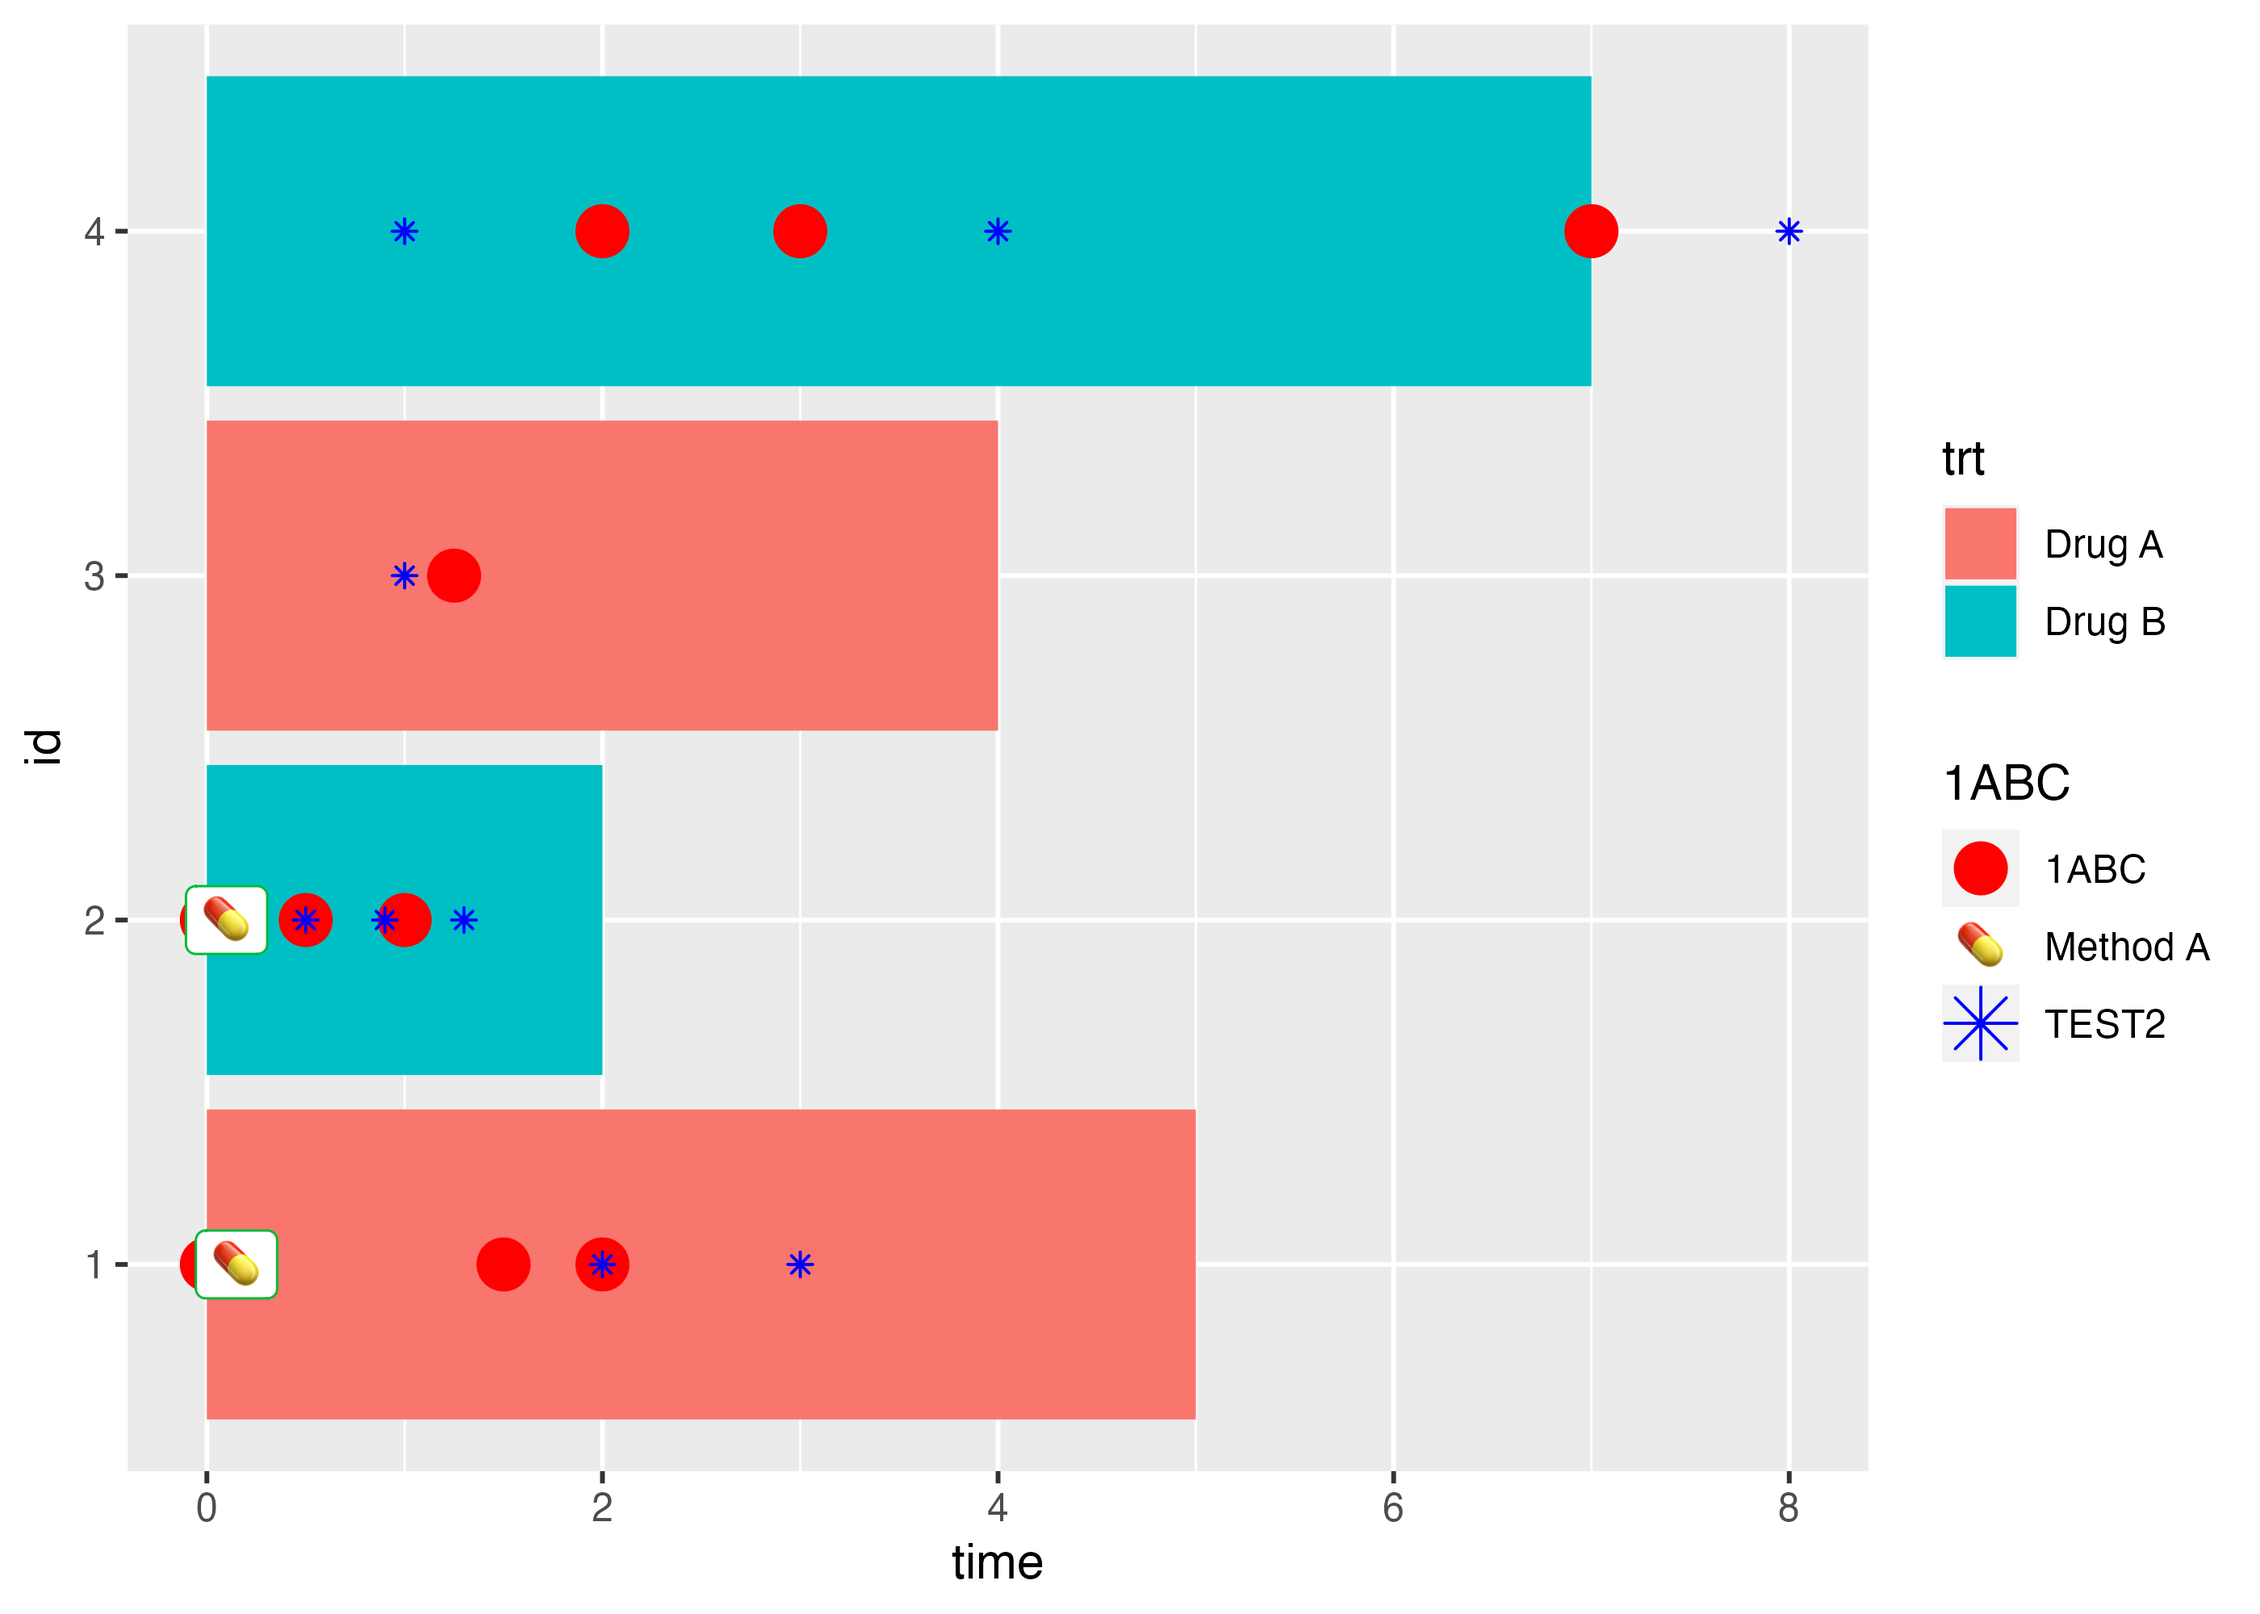
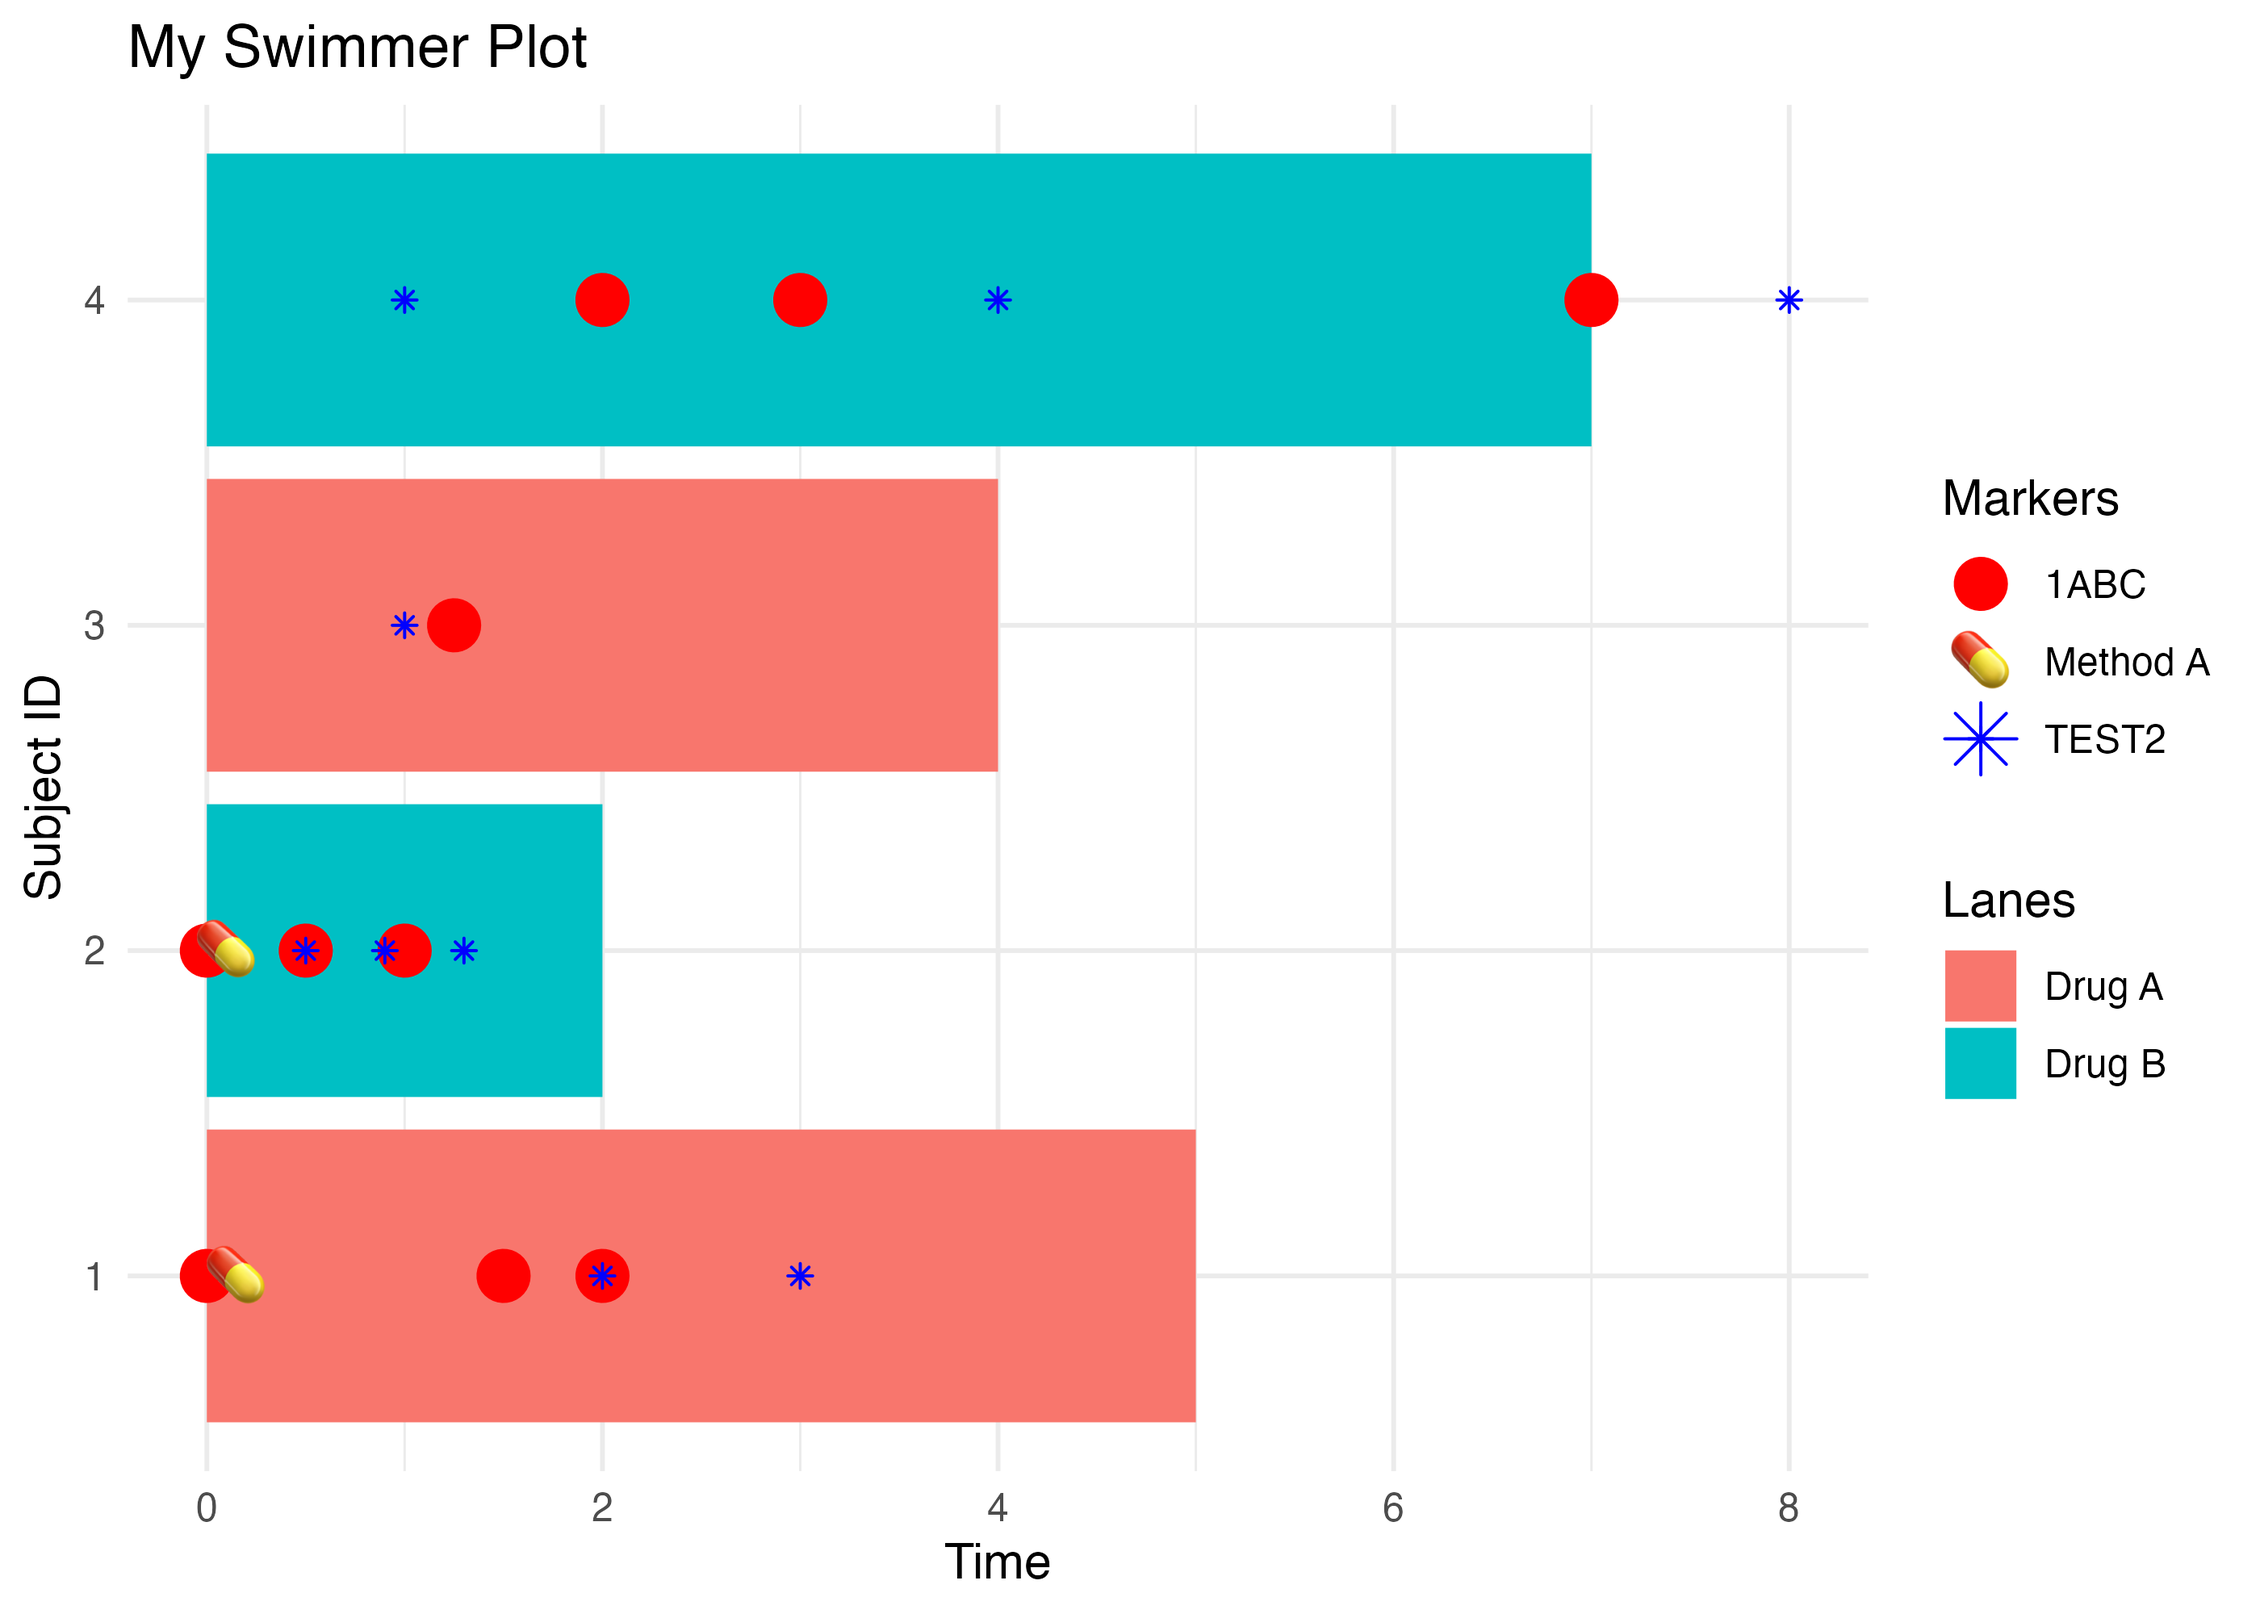
Convert update_ggswim() to build_ggswim() :swimmer:

diff --git a/README.md b/README.md
@@ -189,7 +189,7 @@ rendering:
 
 ``` r
 p +
-  ggplot2::xlab("Time") + ggplot2::ylab("Subject ID") +
+  ggplot2::labs(x = "Time", y = "Subject ID", color = "Markers") +
   ggplot2::ggtitle("My Swim Plot") +
   ggplot2::theme_minimal() +
   ggplot2::scale_color_manual(name = "Markers",
@@ -246,8 +246,12 @@ patient_data |>
   ) +
   add_marker(
     data = dose_type_a,
-    mapping = aes(x = time, y = id4, label = label, color = name)
-  )
+    mapping = aes(x = time, y = id4, label = label, color = name),
+    label.size = NA, fill = NA, size = 5
+  ) +
+  ggplot2::labs(x = "Time", y = "Subject ID", color = "Markers", fill = "Lanes") + 
+  ggplot2::ggtitle("My Swimmer Plot") +
+  ggplot2::theme_minimal()
 #> Warning: Duplicated aesthetics after name standardisation: colour
 #> Duplicated aesthetics after name standardisation: colour
 ```
@@ -262,6 +266,8 @@ The following issues are known:
   remove the missing data from the legend
 - The legend title for one-at-a-time markers defaults to the first value
   in the legend
+  - This can be resolved by updating the `color` and `fill` arguments in
+    `ggplot2::labs()`
 
 ### Future Plans
 
